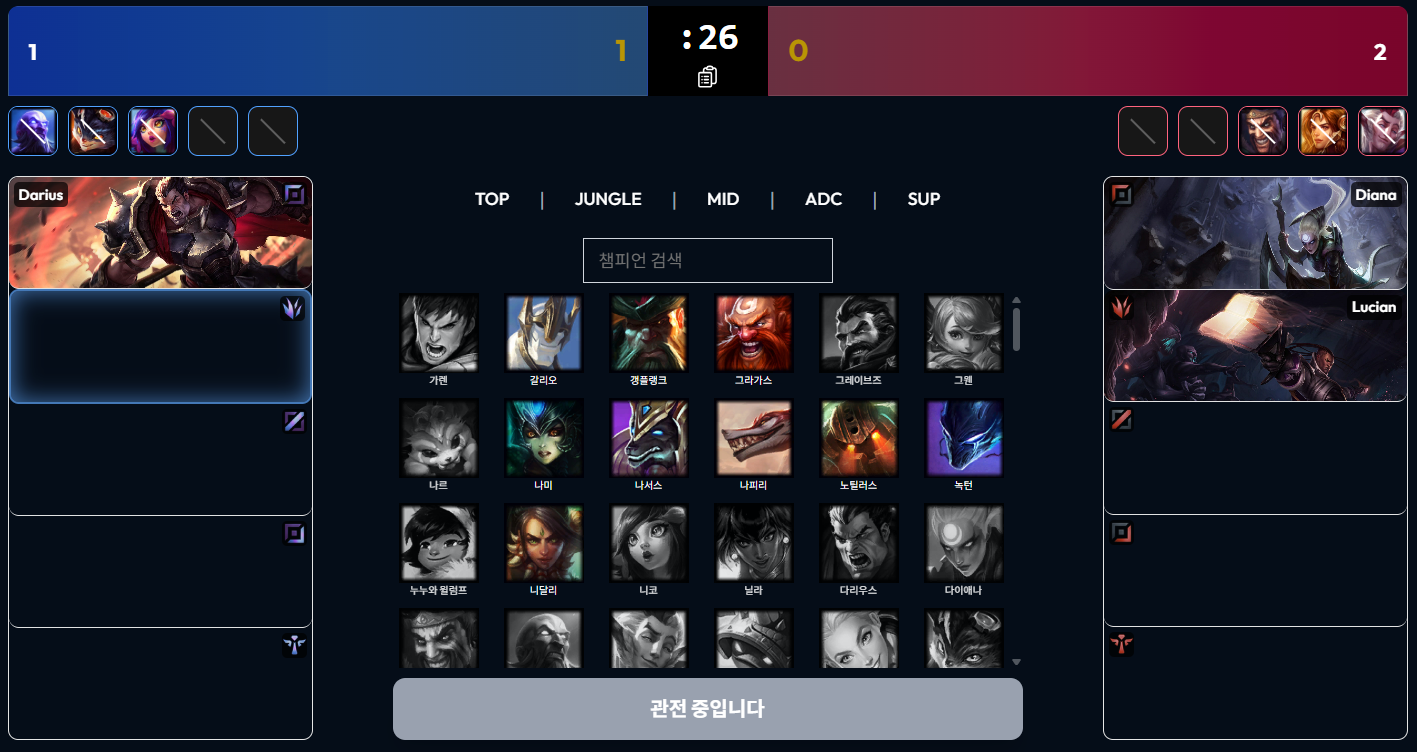
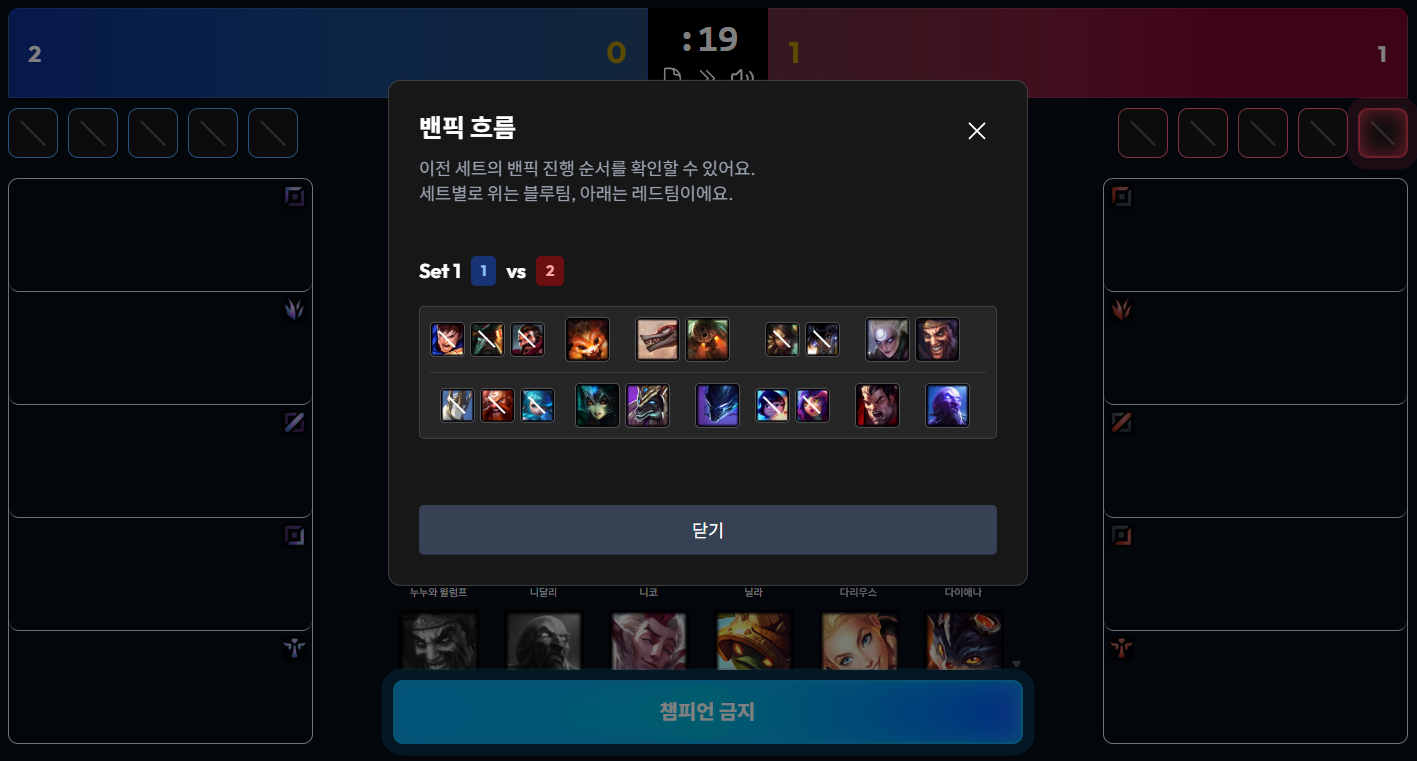
chore: update About page with screenshot

diff --git a/src/pages/BanPickSimulation.tsx b/src/pages/BanPickSimulation.tsx
@@ -195,12 +195,10 @@ const BanPickSimulation = () => {
                 />
               )}
               <div className="mt-1 flex items-center gap-2">
-                {(currentSet > 1 || currentStep === 21) && (
-                  <DocumentTextIcon
-                    className="w-5 h-5 cursor-pointer hover:text-gray-300"
-                    onClick={() => setIsHistoryOpen(true)}
-                  />
-                )}
+                <DocumentTextIcon
+                  className="w-5 h-5 cursor-pointer hover:text-gray-300"
+                  onClick={() => setIsHistoryOpen(true)}
+                />
 
                 {/* {mode !== "normal" && (
                   <NoSymbolIcon
@@ -209,12 +207,10 @@ const BanPickSimulation = () => {
                   />
                 )} */}
 
-                {(currentSet > 1 || currentStep === 21) && (
-                  <ChevronDoubleRightIcon
-                    className="w-5 h-5 cursor-pointer hover:text-gray-300"
-                    onClick={() => setIsBanPickFlowOpen(true)}
-                  />
-                )}
+                <ChevronDoubleRightIcon
+                  className="w-5 h-5 cursor-pointer hover:text-gray-300"
+                  onClick={() => setIsBanPickFlowOpen(true)}
+                />
 
                 {!isGuest && <MuteToggleButton />}
               </div>

diff --git a/src/pages/components/BanPickSimulation/HistoryModal.tsx b/src/pages/components/BanPickSimulation/HistoryModal.tsx
@@ -151,6 +151,12 @@ const HistoryModal = ({
             <p className="text-rose-400">데이터를 불러오는데 실패했습니다.</p>
           )}
 
+          {!queries.length && (
+            <p className="text-gray-400 flex items-center gap-2 justify-center">
+              앗.. 아직 경기 기록이 없네요 😢
+            </p>
+          )}
+
           {!isLoading &&
             !isError &&
             queries.map((q, idx) => {
@@ -243,13 +249,13 @@ const HistoryModal = ({
             })}
         </div>
 
-        {/* <button
+        <button
           className="h-10 mt-6 px-4 py-2 bg-gray-700 text-white rounded hover:bg-gray-600 text-sm"
           onClick={onClose}
           type="button"
         >
           닫기
-        </button> */}
+        </button>
       </DialogContent>
     </Dialog>
   );

diff --git a/src/pages/components/BanPickSimulation/ScreenshotCarousel.tsx b/src/pages/components/BanPickSimulation/ScreenshotCarousel.tsx
@@ -71,14 +71,14 @@ const ScreenshotCarousel = () => {
 
       <button
         onClick={() => handleSlide("prev")}
-        className="absolute left-2 top-1/2 -translate-y-1/2 bg-black/40 hover:bg-black/60 p-2 rounded-full"
+        className="absolute left-2 top-1/2 -translate-y-1/2 bg-black/40 hover:bg-black/60 p-2 rounded-full cursor-pointer"
       >
         <ArrowLeftIcon className="w-6 h-6 text-white" />
       </button>
 
       <button
         onClick={() => handleSlide("next")}
-        className="absolute right-2 top-1/2 -translate-y-1/2 bg-black/40 hover:bg-black/60 p-2 rounded-full"
+        className="absolute right-2 top-1/2 -translate-y-1/2 bg-black/40 hover:bg-black/60 p-2 rounded-full cursor-pointer"
       >
         <ArrowRightIcon className="w-6 h-6 text-white" />
       </button>

diff --git a/src/pages/components/BanPickSimulation/ReadyCheckModal.tsx b/src/pages/components/BanPickSimulation/ReadyCheckModal.tsx
@@ -60,18 +60,12 @@ ReadyCheckModalProps) => {
               <DocumentTextIcon className="w-5 h-5" />
               이전 세트의 라인별 챔피언을 확인할 수 있습니다.
             </div>
-            <div className="text-xs text-gray-400 ml-7">
-              1세트 종료 이후부터 확인할 수 있습니다.
-            </div>
           </div>
 
           <div className="flex flex-col gap-1">
             <div className="flex items-center gap-2">
               <ChevronDoubleRightIcon className="w-5 h-5" />
               이전 세트의 밴픽 흐름을 확인할 수 있습니다.
-            </div>
-            <div className="text-xs text-gray-400 ml-7">
-              1세트 종료 이후부터 확인할 수 있습니다.
             </div>
           </div>
 

diff --git a/src/pages/components/BanPickSimulation/BanPickFlowModal.tsx b/src/pages/components/BanPickSimulation/BanPickFlowModal.tsx
@@ -82,6 +82,12 @@ const BanPickFlowModal = ({
             <p className="text-rose-400">데이터를 불러오는데 실패했습니다.</p>
           )}
 
+          {!queries.length && (
+            <p className="text-gray-400 flex items-center gap-2 justify-center">
+              앗.. 아직 경기 기록이 없네요 😢
+            </p>
+          )}
+
           {!isLoading &&
             !isError &&
             queries.map((q, idx) => {
